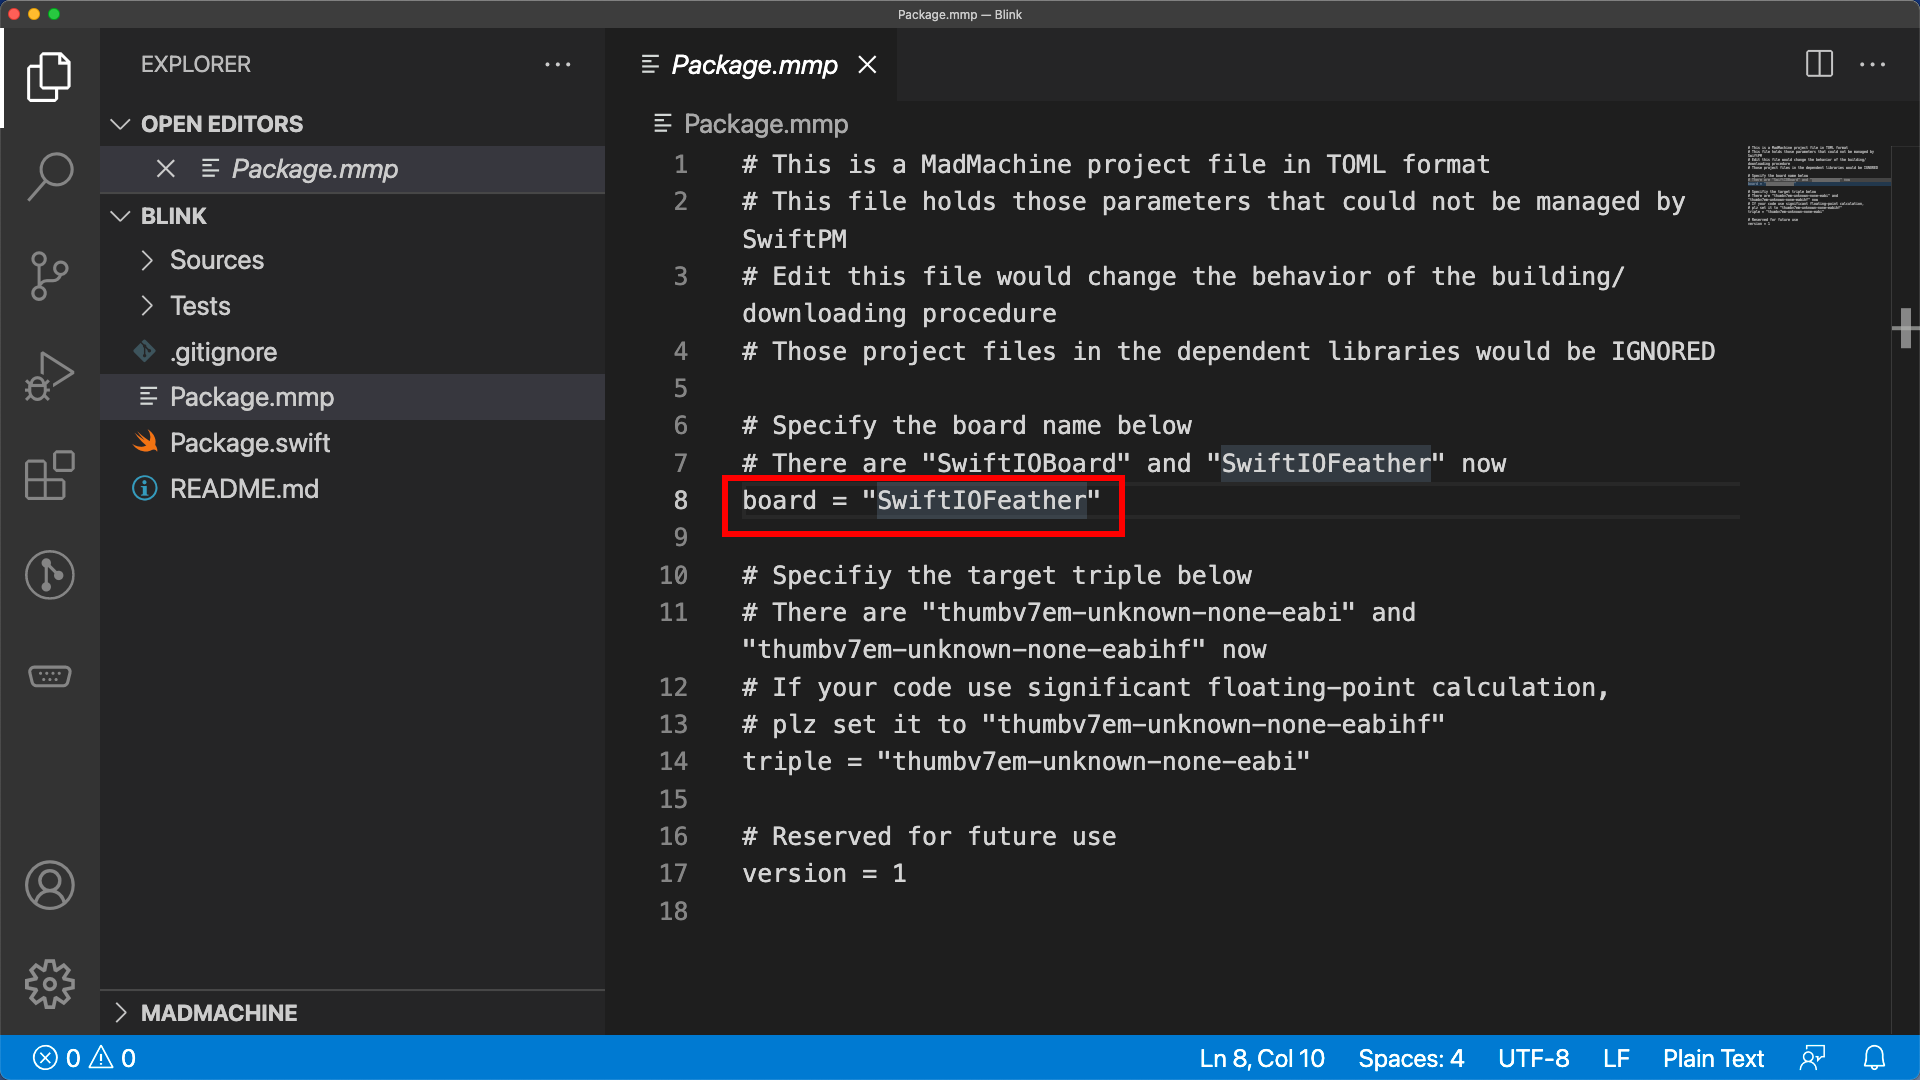
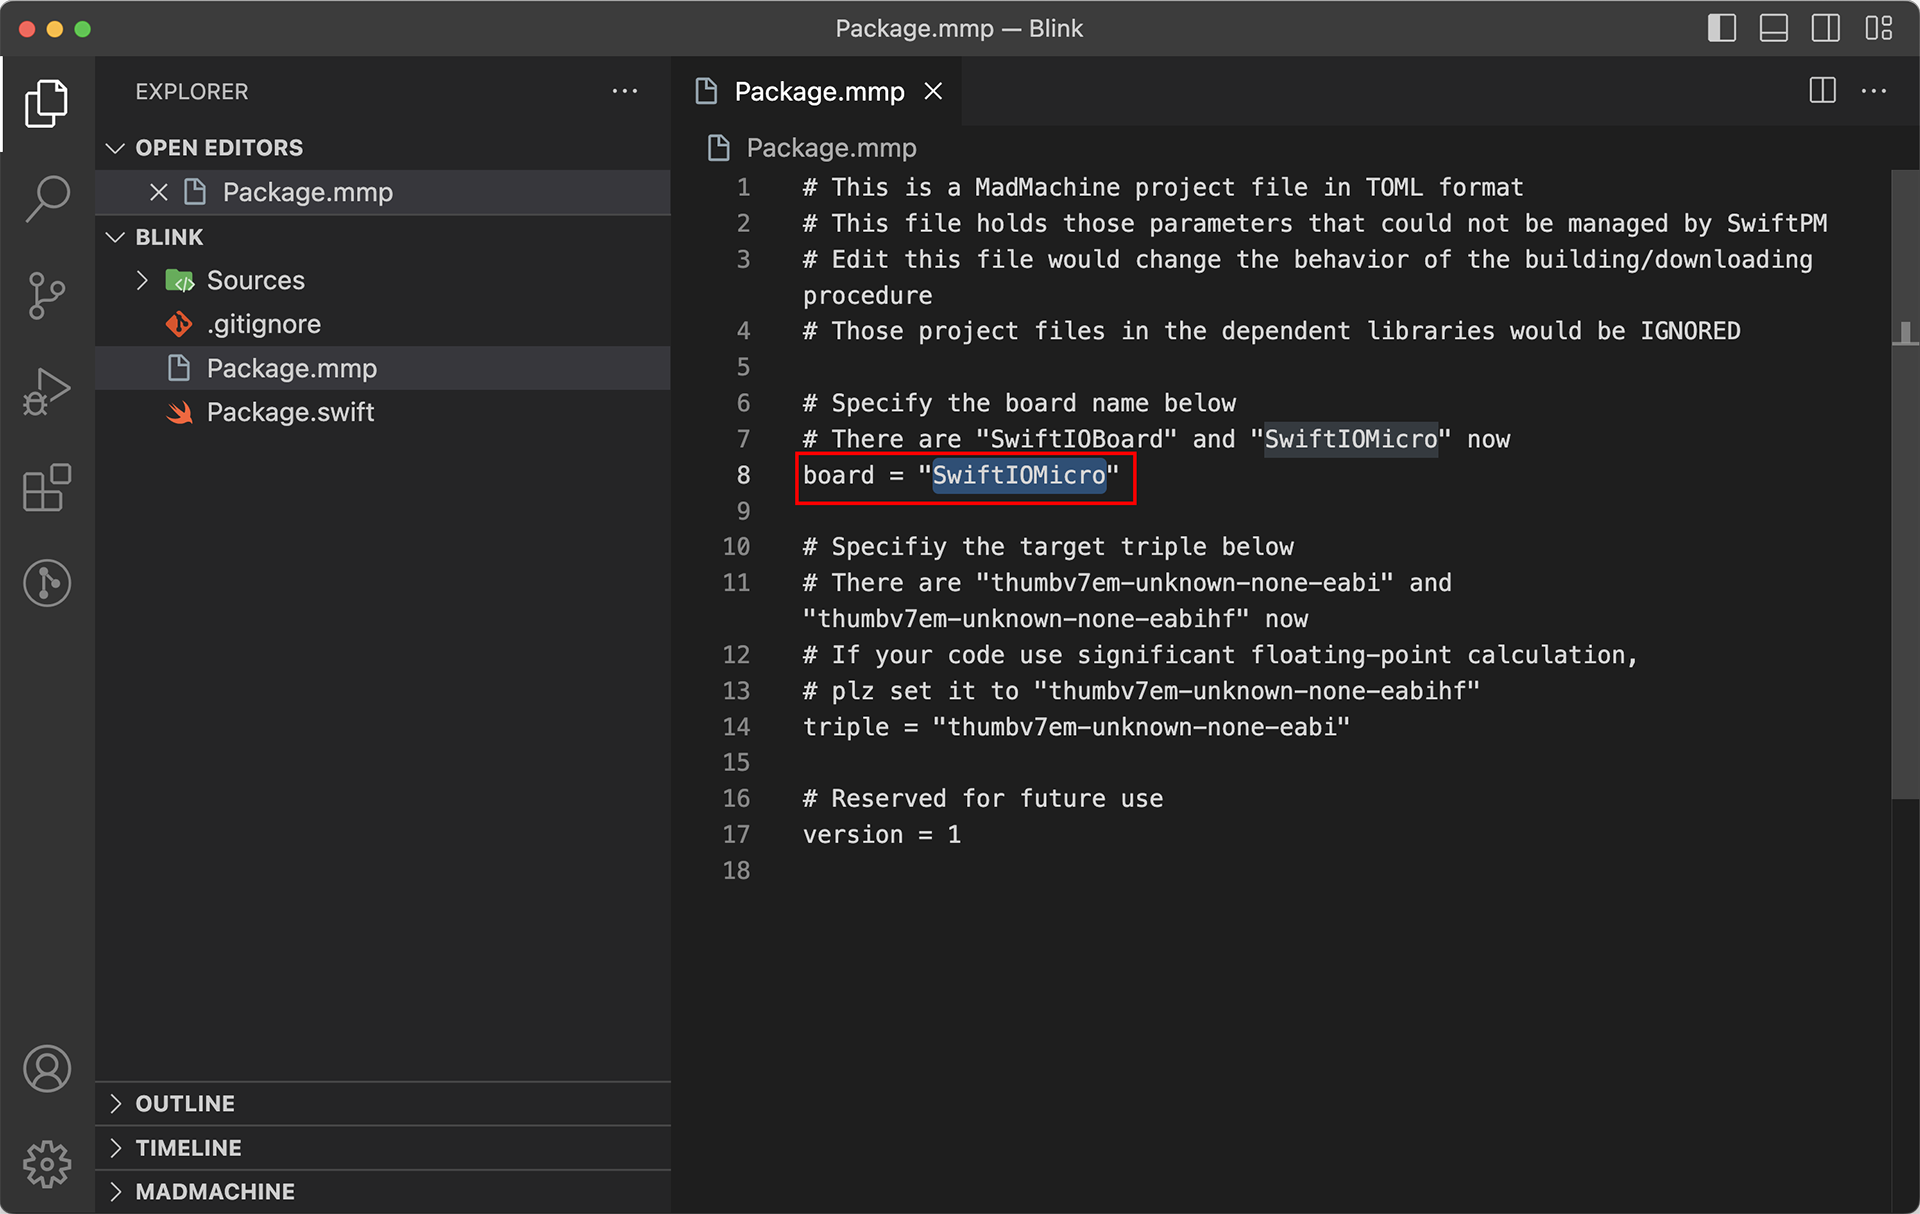
Rename SwiftIOFeather to SwiftIOMicro (#92)
* Rename SwiftIOFeather to SwiftIOMicro

* Update board name and sdk link

---------

diff --git a/docs/overview/advanced/mm-sdk.md b/docs/overview/advanced/mm-sdk.md
@@ -89,11 +89,11 @@ Download and unzip the sdk to the directory `~`
 cd ~/Documents
 mkdir DemoProgram
 cd DemoProgram
-~/mm-sdk/usr/mm/mm init -b SwiftIOFeather
+~/mm-sdk/usr/mm/mm init -b SwiftIOMicro
 ```
 or
 ```shell
-python3 ~/mm-sdk/mm/src/mm.py init -b SwiftIOFeather
+python3 ~/mm-sdk/mm/src/mm.py init -b SwiftIOMicro
 ```
 
 The `Package.swift` should look like below
@@ -106,9 +106,9 @@ let package = Package(
     name: "DemoProgram",
     dependencies: [
         // Dependencies declare other packages that this package depends on.
-        .package(url: "https://github.com/madmachineio/SwiftIO.git", .upToNextMajor(from: "0.0.1")),
-        .package(url: "https://github.com/madmachineio/MadBoards.git", .upToNextMajor(from: "0.0.1")),
-        .package(url: "https://github.com/madmachineio/MadDrivers.git", .upToNextMajor(from: "0.0.1")),
+        .package(url: "https://github.com/madmachineio/SwiftIO.git", branch: "main"),
+        .package(url: "https://github.com/madmachineio/MadBoards.git", branch: "main"),
+        .package(url: "https://github.com/madmachineio/MadDrivers.git", branch: "main"),
     ],
     targets: [
         // Targets are the basic building blocks of a package. A target can define a module or a test suite.
@@ -141,14 +141,14 @@ python3 ~/mm-sdk/mm/src/mm.py build
 
 ### Download an executable to the board
 
-After building your project successfully, there would be `.build/release/feather.bin` in your project directory. Note that the `.build` directory is hidden by default.
+After building your project successfully, there would be `.build/release/micro.img` in your project directory. Note that the `.build` directory is hidden by default.
 
 Follow those steps to download the executable:
 
 1. Insert an SD card into the board and connect it to your computer through USB cable
 2. Press the **Download** button and wait until the onboard RGB LED turns to static **green**
 2. A USB disk drive should be mounted on your computer
-3. Copy the `feather.bin` to the SD card root directory
+3. Copy the `micro.img` to the SD card root directory
 4. Eject the USB drive and the program would run automatically
 
 ### Download an executable to the board using command (Only on macOS now)
